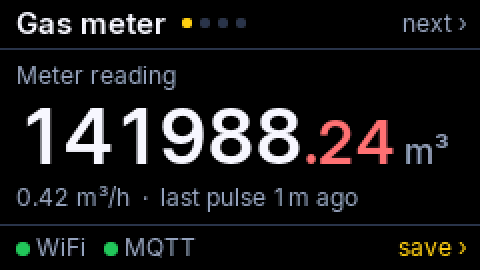
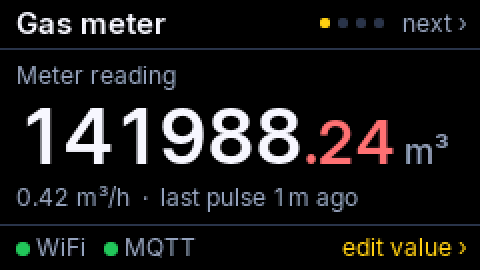
feat(display): edit meter value from the gas page
The lower button now opens the meter editor on the gas page; cancelling
returns there. The device page has no action anymore, and the MQTT page
hint reads "save & send" since it saves the state and publishes it now.

Changed region(s): [[0.6875, 0.8593, 0.9375, 0.9481], [0.6562, 0.0593, 0.8125, 0.1185], [0.375, 0.0593, 0.5312, 0.1185]]

diff --git a/lib/ui/Ui.cpp b/lib/ui/Ui.cpp
@@ -129,7 +129,7 @@ namespace
         }
         c.drawText(MARGIN, 103, line, font_small, MUTED);
 
-        drawFooter(c, s, "save ›");
+        drawFooter(c, s, "edit value ›");
     }
 
     void drawWifi(Canvas &c, const UiState &s)
@@ -166,7 +166,7 @@ namespace
             c.drawText(RIGHT, 42, fitText(status, sizeof(status), s.mqttStatus, font_small, 150), font_small, BAD, Align::Right);
         }
         drawField(c, MARGIN, 81, "Client ID", s.clientId);
-        drawFooter(c, s, "save ›");
+        drawFooter(c, s, "save & send ›");
     }
 
     void drawInfo(Canvas &c, const UiState &s)
@@ -178,7 +178,7 @@ namespace
         drawField(c, MARGIN, 42, "Firmware", s.version);
         drawField(c, MARGIN, 81, "Uptime", uptime, TEXT, COLUMN_2 - MARGIN - 6);
         drawField(c, COLUMN_2, 81, "Pulses", pulses);
-        drawFooter(c, s, "edit value ›");
+        drawFooter(c, s, nullptr);
     }
 
     void drawEdit(Canvas &c, const UiState &s)

diff --git a/src/display.cpp b/src/display.cpp
@@ -170,7 +170,7 @@ namespace
                 app::resetWifi();
             wifiResetRequest = millis();
             break;
-        case PAGE_INFO:
+        case PAGE_GAS:
             startEdit();
             break;
         case PAGE_EDIT:
@@ -182,16 +182,18 @@ namespace
             }
             else if (editCursor == UI_EDIT_CANCEL)
             {
-                page = PAGE_INFO;
+                page = PAGE_GAS;
             }
             else
             {
                 incrementDigit();
             }
             break;
-        default: // gas and MQTT page: save and publish now
+        case PAGE_MQTT: // save and publish now
             app::save();
             mqtt::publishState();
+            break;
+        default: // device page: no action
             break;
         }
         updateRequested = true;

diff --git a/README.MD b/README.MD
@@ -99,8 +99,8 @@ The upper button (next to the top-right corner) cycles through the pages, the lo
 
 | | |
 |---|---|
-| <img src="img/lcd-gas.png" width="360" alt="Gas screen"><br>**Gas:** meter reading, flow estimate, time since last pulse. Lower button: save & publish | <img src="img/lcd-wifi.png" width="360" alt="WiFi screen"><br>**WiFi:** network, signal, IP. Lower button twice: reset Wi-Fi |
-| <img src="img/lcd-mqtt.png" width="360" alt="MQTT screen"><br>**MQTT:** broker and client ID (errors are shown in red) | <img src="img/lcd-info.png" width="360" alt="Device screen"><br>**Device:** firmware, uptime, pulses. Lower button: edit meter value |
+| <img src="img/lcd-gas.png" width="360" alt="Gas screen"><br>**Gas:** meter reading, flow estimate, time since last pulse. Lower button: edit meter value | <img src="img/lcd-wifi.png" width="360" alt="WiFi screen"><br>**WiFi:** network, signal, IP. Lower button twice: reset Wi-Fi |
+| <img src="img/lcd-mqtt.png" width="360" alt="MQTT screen"><br>**MQTT:** broker and client ID (errors are shown in red). Lower button: save & send | <img src="img/lcd-info.png" width="360" alt="Device screen"><br>**Device:** firmware, uptime, pulses |
 | <img src="img/lcd-edit.png" width="360" alt="Edit screen"><br>**Edit meter value:** upper button moves the cursor, lower button increments the digit | <img src="img/lcd-portal.png" width="360" alt="Setup screen"><br>**WiFi setup:** shown while the config portal is active |
 
 ### Web UI (served by the device)
@@ -138,12 +138,12 @@ All values in m³ with two decimals (e.g. `141988.24`), published every 60 s and
 - Via Home Assistant: the number entity "Set Meter Reading".
 - Via MQTT: publish the new value in m³ (e.g. `12345.67`) to `<clientID>/<mqtt_topic_gas>/set`. Invalid values are ignored. A retained message is applied once when it arrives live, but ignored when the broker replays it after a reconnect; the device then deletes it from the broker.
 - Via web UI: card "Correct meter reading".
-- Via display: Device page → lower button, set the digits, then select "Save" (or "Cancel").
+- Via display: Gas page → lower button, set the digits, then select "Save" (or "Cancel").
 
 ### Persistence
 - LittleFS (`/data.json`): pulse counter, offset, MQTT server/port/user/password, client ID, topic, web UI password. Written atomically (temporary file + rename).
 - Wi-Fi credentials are stored by WiFiManager in the ESP32's NVS
-- Saved every 10 minutes (only if something changed), before restart/OTA, after configuration changes and via the "save" button on the gas page
+- Saved every 10 minutes (only if something changed), before restart/OTA, after configuration changes and via the "save & send" button on the MQTT page
 
 ## Development
 - `src/` (headers in `include/`):
